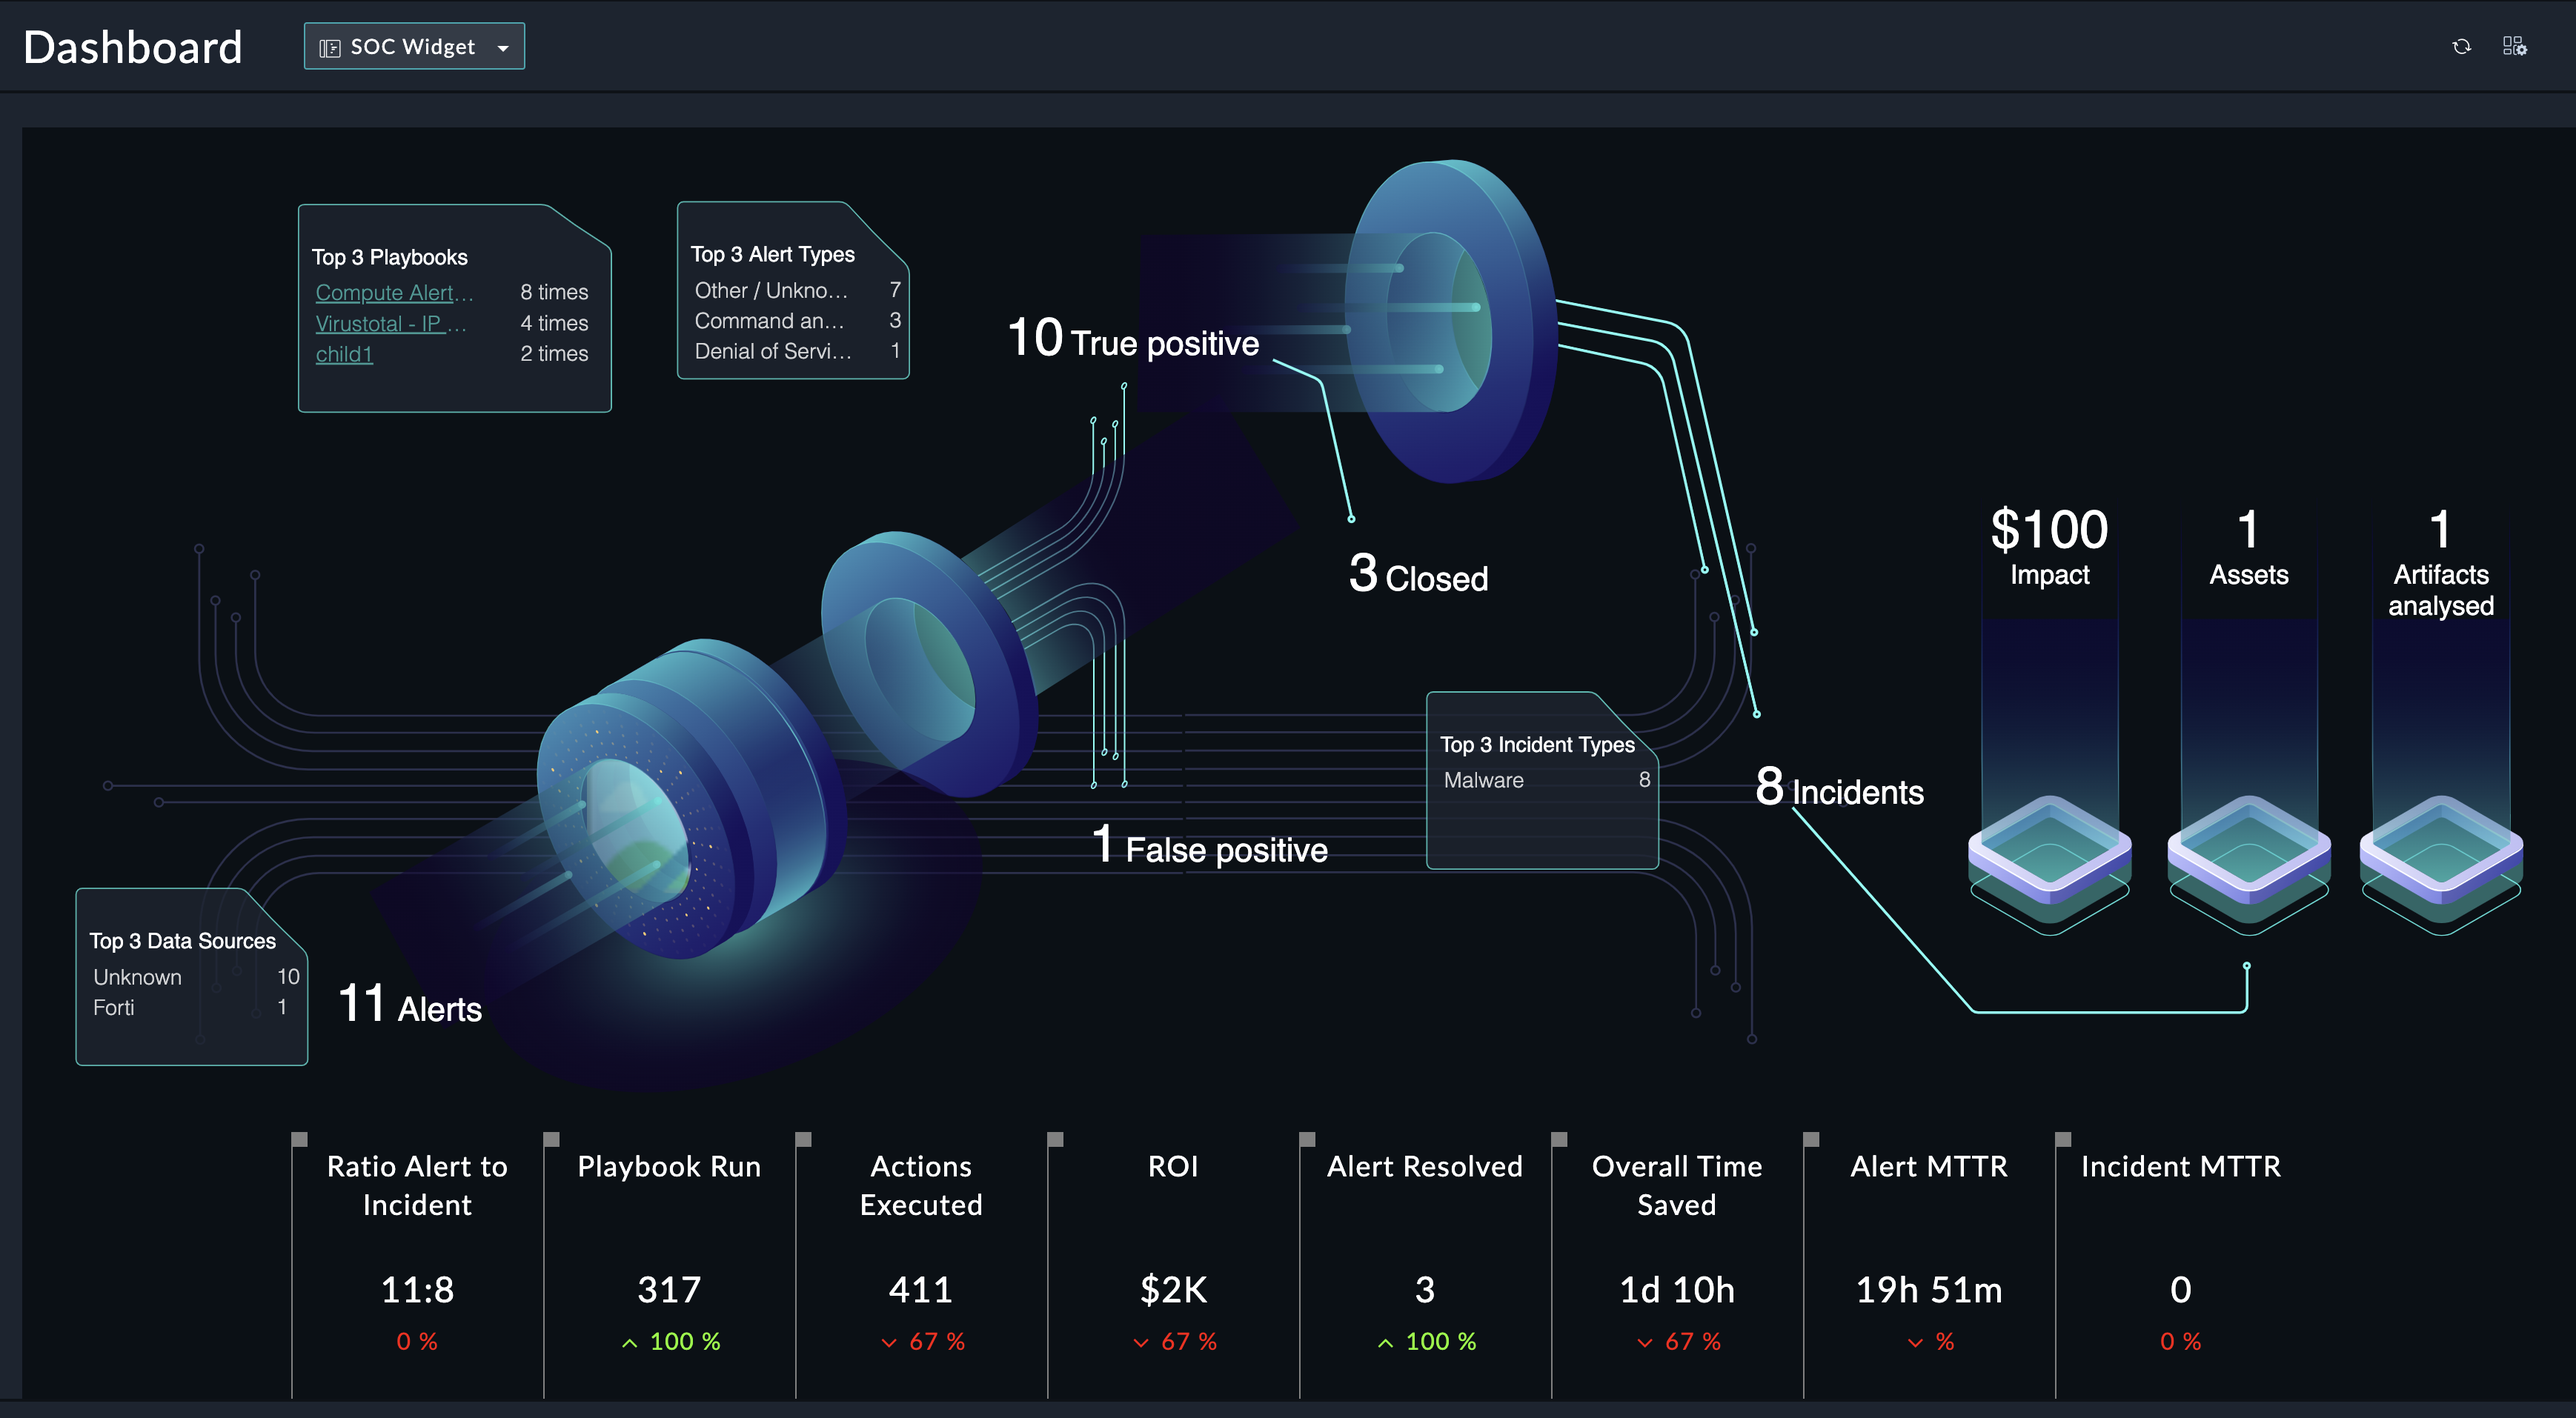
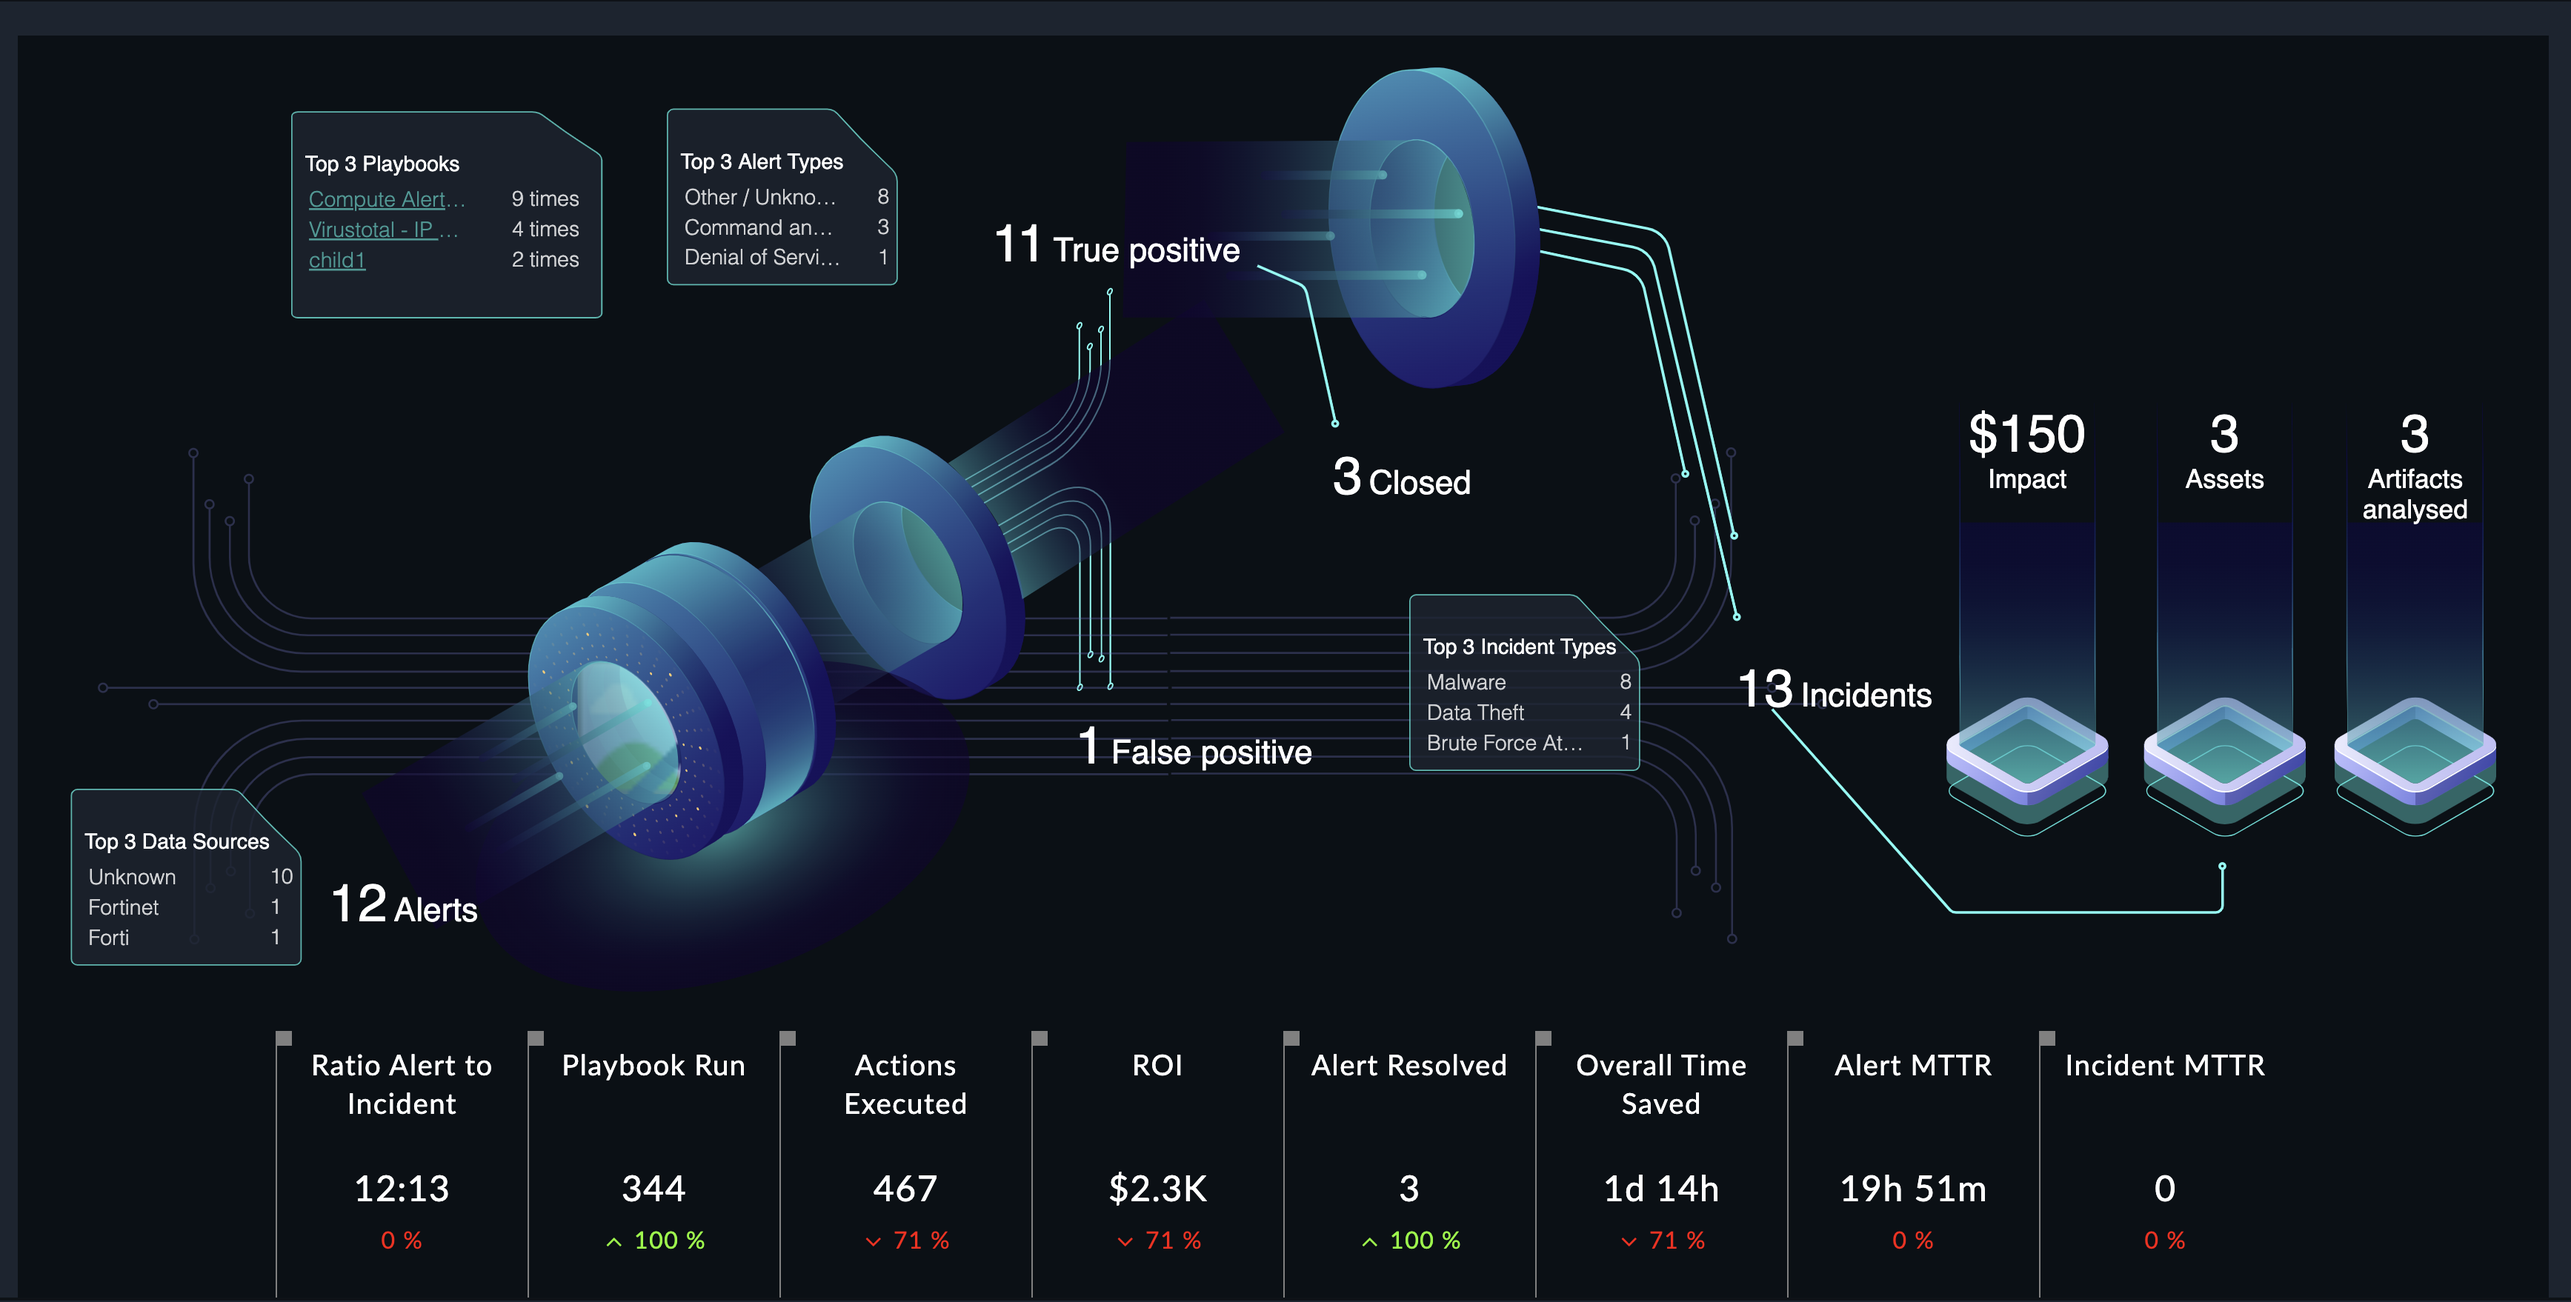
[widget/20792]- impact,artifacts, assets query upd

diff --git a/widget/view.controller.js b/widget/view.controller.js
@@ -176,19 +176,18 @@
     }
 
     function calculatePercentage(element) {
-      if (element.currentValue > 0) {
-        var _percent = ((element.lastValue - element.currentValue) / element.currentValue) * 100;
+      var _percent = 0;
+      element.percentChange = 0;
+      if (element.lastValue > 0) {
+        _percent = ((element.currentValue - element.lastValue) / element.lastValue) * 100;
         element.percentChange = _percent;
-        if (_percent < 0) {
-          element.percentChange = Math.abs(_percent);
+        if (_percent > 0) {
           element.increase = true;
         }
         else {
           element.increase = false;
         }
-      }
-      else if (element.lastValue === 0 && element.currentValue === 0) {
-        element.percentChange = 0;
+        element.percentChange = Math.abs(_percent);
       }
       $scope.percentageData.push(element);
       $scope.percentageData.sort((a, b) => a.sequence - b.sequence);
@@ -778,16 +777,15 @@
     }
 
     function getImpactCount() {
-      var dateRangeFilter = {
-        filters: [
+      var dateRangeFilter =  [
           {
-            field: $scope.config.relatedResource.dateFilterField,
+            field: $scope.dateFilterField,
             operator: 'gte',
             type: 'date',
             value: 'currentDateMinus(' + $scope.config.days + ')'
           },
           {
-            field: $scope.config.relatedResource.dateFilterField,
+            field: $scope.dateFilterField,
             operator: 'lte',
             type: 'date',
             value: 'currentDateMinus(0)'
@@ -797,8 +795,7 @@
             'operator': 'isnull',
             'value': 'false'
           }
-        ]
-      };
+        ];
 
       var countAggregate = {
         alias: 'impact',
@@ -806,7 +803,7 @@
         operator: 'sum'
       };
       var _query = {
-        filters: [dateRangeFilter],
+        filters: dateRangeFilter,
         aggregates: [countAggregate],
         limit: ALL_RECORDS_SIZE
 
@@ -826,27 +823,20 @@
     }
 
     function getTotalAssetsCount() {
-      var dateRangeFilter = {
-        filters: [
+      var dateRangeFilter = [
           {
-            field: $scope.config.relatedResource2.dateFilterField,
+            field: $scope.dateFilterField,
             operator: 'gte',
-            type: 'date',
+            type: 'datetime',
             value: 'currentDateMinus(' + $scope.config.days + ')'
           },
           {
-            field: $scope.config.relatedResource2.dateFilterField,
+            field: $scope.dateFilterField,
             operator: 'lte',
-            type: 'date',
+            type: 'datetime',
             value: 'currentDateMinus(0)'
-          },
-          {
-            'field': 'incidents',
-            'operator': 'isnull',
-            'value': 'false'
           }
-        ]
-      };
+        ];
 
       var countAggregate = {
         alias: 'assets',
@@ -854,7 +844,7 @@
         operator: 'countdistinct'
       };
       var _query = {
-        filters: [dateRangeFilter],
+        filters: dateRangeFilter,
         aggregates: [countAggregate],
         limit: ALL_RECORDS_SIZE
 
@@ -872,27 +862,20 @@
     }
 
     function getArtifactsAnalysed() {
-      var dateRangeFilter = {
-        filters: [
-          {
-            field: $scope.config.relatedResource3.dateFilterField,
-            operator: 'gte',
-            type: 'date',
-            value: 'currentDateMinus(' + $scope.config.days + ')'
-          },
-          {
-            field: $scope.config.relatedResource3.dateFilterField,
-            operator: 'lte',
-            type: 'date',
-            value: 'currentDateMinus(0)'
-          },
-          {
-            'field': 'incidents',
-            'operator': 'isnull',
-            'value': 'false'
-          }
-        ]
-      };
+      var dateRangeFilter = [
+        {
+          field: $scope.dateFilterField,
+          operator: 'gte',
+          type: 'datetime',
+          value: 'currentDateMinus(' + $scope.config.days + ')'
+        },
+        {
+          field: $scope.dateFilterField,
+          operator: 'lte',
+          type: 'datetime',
+          value: 'currentDateMinus(0)'
+        }
+      ];
 
       var countAggregate = {
         alias: 'indicators',
@@ -900,7 +883,7 @@
         operator: 'countdistinct'
       };
       var _query = {
-        filters: [dateRangeFilter],
+        filters: dateRangeFilter,
         aggregates: [countAggregate],
         limit: ALL_RECORDS_SIZE
 
